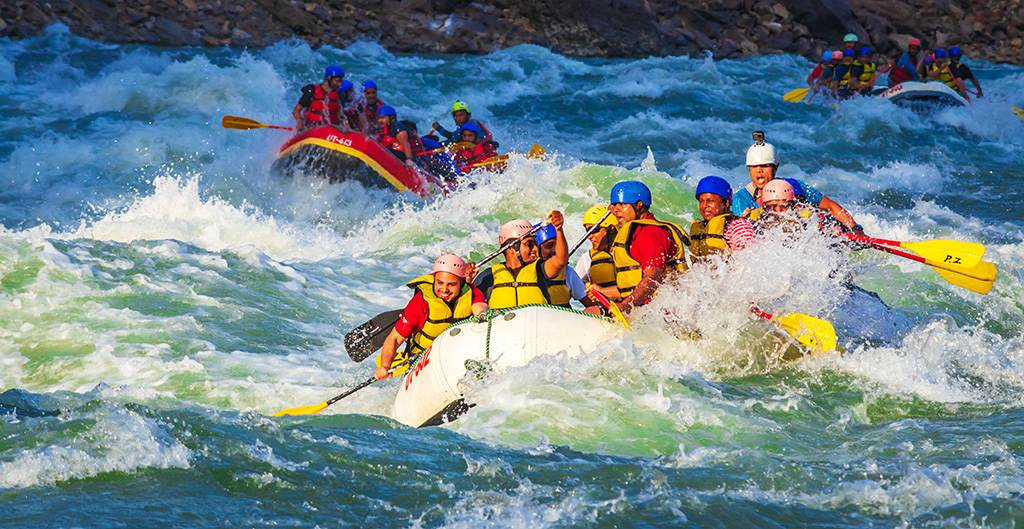
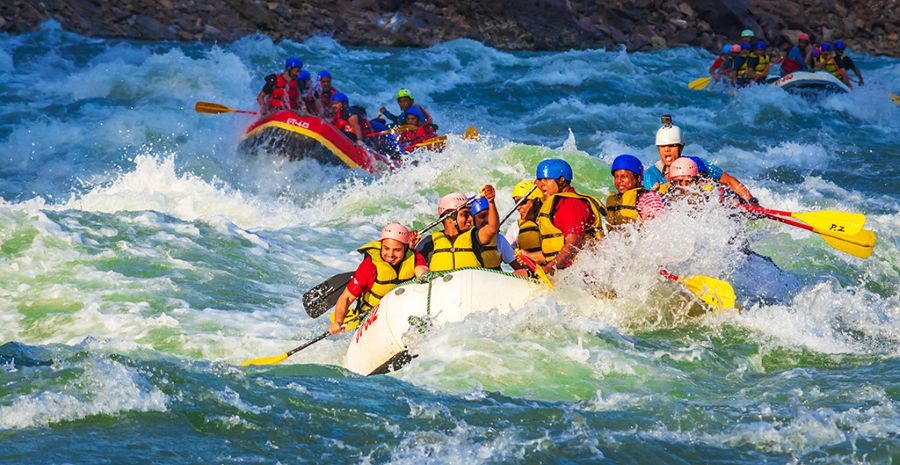
It wasn't impossible to resize using the integrated windows editing feature so I resized it on Squoosh online.

diff --git a/wwr/about.html b/wwr/about.html
@@ -26,7 +26,7 @@
 
     <main>
         <div class="hero">
-            <img src="images/rafting12_1024.jpg" alt="People enjoying a white water rafting adventure">
+            <img src="images/rafting13_1024.jpg" alt="People enjoying a white water rafting adventure">
             <h1>Rapids Adventure</h1>
 
             <article>
